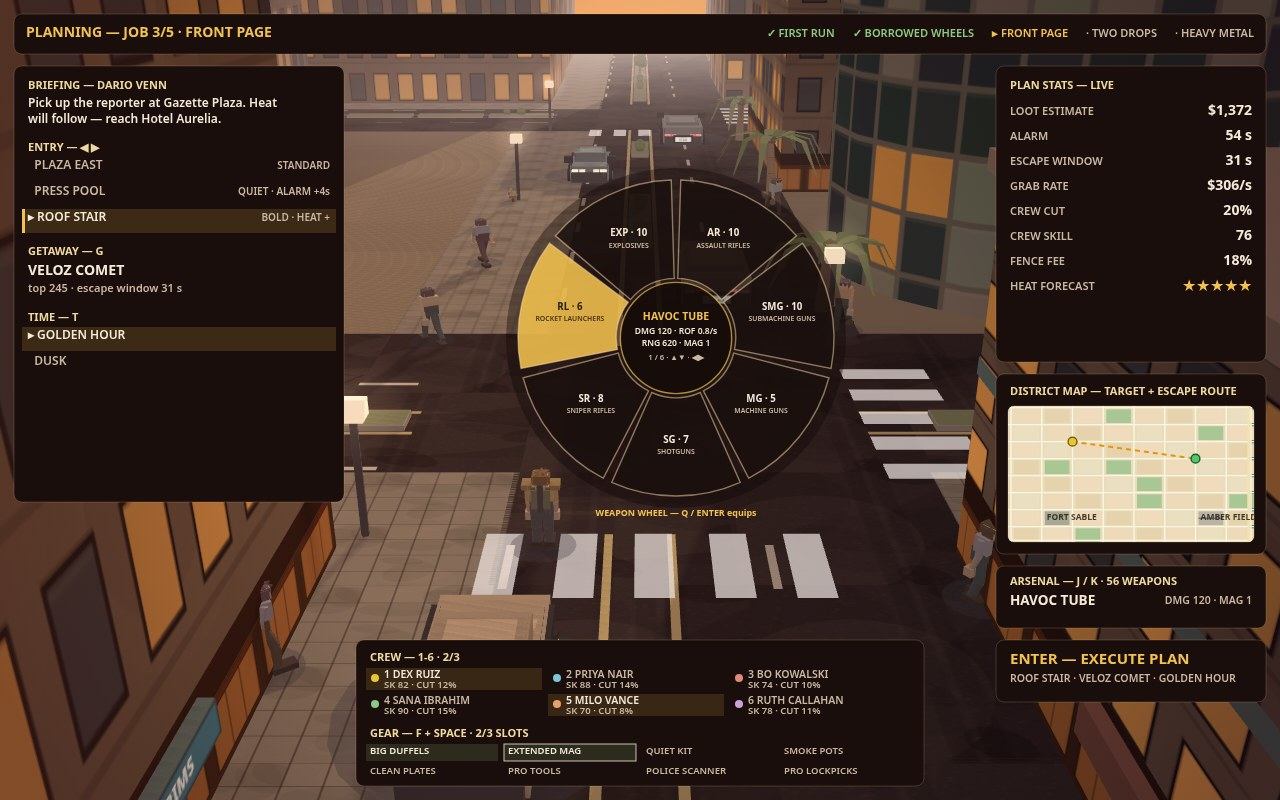
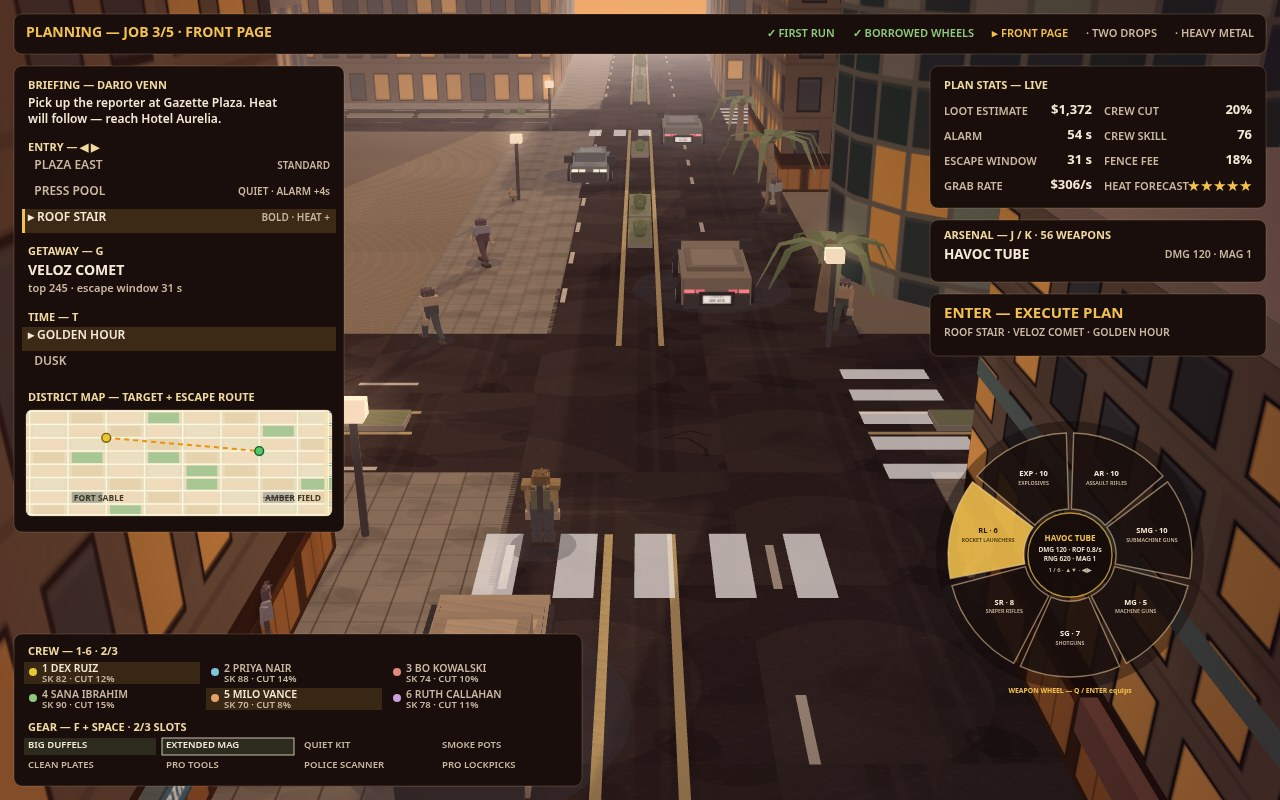
gta6-01 REAL-3D Phase 7 (hud.js board layout only; view3d.js/shots.js untouched, all sim modules byte-identical): BOARD FOCAL HIERARCHY — the Phase 6 panel's ranked programme item 1. Frame 1's panels + weapon wheel covered 51.7% panel-rect / ~70% perceptual and fragmented the street into corridors. 

diff --git a/game/src/hud.js b/game/src/hud.js
@@ -509,9 +509,11 @@ export function drawPlanning(ctx, game) {
     ctx.fillStyle = i === idx ? '#f2c14e' : i < idx ? '#8fc97f' : PALETTE.hudMuted;
     ctx.fillText(label, tabX, 28); tabX -= w + 18;
   }
-  // Left column: briefing, entry, getaway, time.
+  // Left column: briefing, entry, getaway, time — and, folded into the
+  // dead space this panel used to waste (Phase 7 focal hierarchy), the
+  // district map that used to be its own right-column panel.
   const lx = 14, lw = 330;
-  panelSolid(ctx, lx, 66, lw, 436);
+  panelSolid(ctx, lx, 66, lw, 466);
   let y = 80;
   ctx.textAlign = 'left'; ctx.fillStyle = '#f0d9a0'; ctx.font = '700 11px system-ui, sans-serif';
   ctx.fillText('BRIEFING — DARIO VENN', lx + 14, y); y += 18;
@@ -544,8 +546,18 @@ export function drawPlanning(ctx, game) {
     ctx.fillStyle = t.id === plan.timeOfDay ? PALETTE.hudText : PALETTE.hudMuted; ctx.font = '600 12px system-ui, sans-serif';
     ctx.fillText((t.id === plan.timeOfDay ? '▸ ' : '  ') + t.label, lx + 14, y); y += 26;
   });
-  // Right column: the live plan stats.
-  const rx = VIEW_W - 284, rw = 270;
+  // District map folded into the briefing panel (Phase 7): same drawn
+  // cartography, wider and shorter — the right column is freed for the
+  // compact stats stack and the street opens up on that side.
+  y += 10;
+  ctx.fillStyle = '#f0d9a0'; ctx.font = '700 11px system-ui, sans-serif';
+  ctx.fillText('DISTRICT MAP — TARGET + ESCAPE ROUTE', lx + 14, y); y += 18;
+  drawDistrictMap(ctx, game, lx + 12, y, lw - 24, 106);
+  // Right column: the live plan stats. Phase 7: wider + compact — the
+  // eight stat lines run in TWO columns of four, and ARSENAL + EXECUTE
+  // stack directly underneath, so the whole right instrument column ends
+  // at y=356 and the street below it is open.
+  const rx = VIEW_W - 350, rw = 336;
   let stars = '';
   for (let i = 0; i < 5; i++) stars += i < st.heatStars ? '★' : '☆';
   if (staged) {
@@ -565,10 +577,12 @@ export function drawPlanning(ctx, game) {
     ctx.fillStyle = PALETTE.hudMuted; ctx.font = '600 10.5px system-ui, sans-serif';
     ctx.fillText(def.pickup ? def.pickup.name.toUpperCase() + ' → ' + (def.deliver ? def.deliver.name.toUpperCase() : '') : 'TARGET ROUTE QUEUED', rx + 14, 160);
   } else {
-  panelSolid(ctx, rx, 66, rw, 296);
+  panelSolid(ctx, rx, 66, rw, 142);
   y = 80;
   ctx.fillStyle = '#f0d9a0'; ctx.font = '700 11px system-ui, sans-serif'; ctx.textAlign = 'left';
   ctx.fillText('PLAN STATS — LIVE', rx + 14, y); y += 24;
+  // ALL eight stat lines, unchanged values, in two columns of four:
+  // LOOT/ALARM/ESCAPE/GRAB left, CUT/SKILL/FENCE/HEAT right.
   const statRows = [
     ['LOOT ESTIMATE', formatMoney(st.loot)],
     ['ALARM', st.alarm + ' s'],
@@ -577,27 +591,24 @@ export function drawPlanning(ctx, game) {
     ['CREW CUT', st.totalCut + '%'],
     ['CREW SKILL', String(st.avgSkill)],
     ['FENCE FEE', st.fencePct + '%'],
+    ['HEAT FORECAST', stars],
   ];
-  for (const [k, v] of statRows) {
+  statRows.forEach(([k, v], i) => {
+    const colX = rx + 14 + Math.floor(i / 4) * 160, colW = 148;
+    const ry = y + (i % 4) * 25;
+    const isHeat = k === 'HEAT FORECAST';
     ctx.fillStyle = PALETTE.hudMuted; ctx.font = '600 11px system-ui, sans-serif'; ctx.textAlign = 'left';
-    ctx.fillText(k, rx + 14, y + 2);
-    ctx.fillStyle = PALETTE.hudText; ctx.font = '700 14px system-ui, sans-serif'; ctx.textAlign = 'right';
-    ctx.fillText(v, rx + rw - 14, y); y += 25;
-  }
-  ctx.fillStyle = PALETTE.hudMuted; ctx.font = '600 11px system-ui, sans-serif'; ctx.textAlign = 'left';
-  ctx.fillText('HEAT FORECAST', rx + 14, y + 2);
-  ctx.font = '16px sans-serif'; ctx.textAlign = 'right';
-  ctx.fillStyle = '#f2c14e'; ctx.fillText(stars, rx + rw - 14, y);
-  // District map (VC-style cartography, our geography) under the stats.
-  panelSolid(ctx, rx, 374, rw, 180);
-  ctx.fillStyle = '#f0d9a0'; ctx.font = '700 11px system-ui, sans-serif'; ctx.textAlign = 'left';
-  ctx.fillText('DISTRICT MAP — TARGET + ESCAPE ROUTE', rx + 14, 386);
-  drawDistrictMap(ctx, game, rx + 12, 406, rw - 24, 136);
+    ctx.fillText(k, colX, ry + 2);
+    ctx.fillStyle = isHeat ? '#f2c14e' : PALETTE.hudText; ctx.font = isHeat ? '15px sans-serif' : '700 13px system-ui, sans-serif'; ctx.textAlign = 'right';
+    ctx.fillText(v, colX + colW, ry);
+  });
+  ctx.textAlign = 'left';
   }
   // Arsenal strip: the mission weapon picked from the full 56-weapon table.
-  panelSolid(ctx, rx, staged ? 188 : 566, rw, 62);
+  // Phase 7: stacked in the right instrument column under the stats.
+  panelSolid(ctx, rx, staged ? 188 : 220, rw, 62);
   const wdef = weaponById(plan.weaponId || 'venn-9mm');
-  const ay = staged ? 198 : 576;
+  const ay = staged ? 198 : 230;
   ctx.fillStyle = '#f0d9a0'; ctx.font = '700 11px system-ui, sans-serif'; ctx.textAlign = 'left';
   ctx.fillText('ARSENAL — J / K · 56 WEAPONS', rx + 14, ay);
   ctx.fillStyle = PALETTE.hudText; ctx.font = '700 13.5px system-ui, sans-serif';
@@ -605,8 +616,9 @@ export function drawPlanning(ctx, game) {
   ctx.fillStyle = PALETTE.hudMuted; ctx.font = '600 10.5px system-ui, sans-serif'; ctx.textAlign = 'right';
   ctx.fillText('DMG ' + wdef.damage + ' · MAG ' + (plan.gear.includes('extmag') && wdef.cls !== 'EXP' && wdef.cls !== 'RL' ? Math.round(wdef.mag * 1.5) : wdef.mag), rx + rw - 14, ay + 20);
   ctx.textAlign = 'left';
-  // Bottom centre: crew and gear over their slots.
-  const bx = 356, bw = 568;
+  // Bottom-left dock: crew and gear over their slots (Phase 7 — was
+  // bottom-centre, where it cut the street's foreground in two).
+  const bx = 14, bw = 568;
   if (staged) {
     // Collapsed crew+gear bar: the hired names and packed gear, one line
     // each — the full slot grids stay one keypress away in live play.
@@ -620,8 +632,8 @@ export function drawPlanning(ctx, game) {
     ctx.fillStyle = PALETTE.hudText; ctx.font = '600 10.5px system-ui, sans-serif';
     ctx.fillText(GEAR_POOL.filter((g) => plan.gear.includes(g.id)).map((g) => g.name).join(' · ') + '  (+' + (GEAR_POOL.length - plan.gear.length) + ' IN LOCKER)', bx + 190, 758);
   } else {
-  panelSolid(ctx, bx, 640, bw, 146);
-  y = 652;
+  panelSolid(ctx, bx, 634, bw, 152);
+  y = 646;
   ctx.textAlign = 'left'; ctx.fillStyle = '#f0d9a0'; ctx.font = '700 11px system-ui, sans-serif';
   ctx.fillText('CREW — 1-6 · ' + plan.crew.length + '/3', bx + 14, y); y += 18;
   CREW_POOL.forEach((c, i) => {
@@ -647,20 +659,23 @@ export function drawPlanning(ctx, game) {
     ctx.fillText(g.name, cxp, cyp + 1);
   });
   }
-  // Execute corner.
-  panelSolid(ctx, VIEW_W - 284, 640, 270, 62);
+  // Execute: bottom of the right instrument column (Phase 7 — was its
+  // own bottom-right corner panel over the street's foreground).
+  panelSolid(ctx, rx, 294, rw, 62);
   ctx.fillStyle = '#f2c14e'; ctx.font = '700 15px system-ui, sans-serif'; ctx.textAlign = 'left';
-  ctx.fillText('ENTER — EXECUTE PLAN', VIEW_W - 270, 652);
+  ctx.fillText('ENTER — EXECUTE PLAN', rx + 14, 306);
   ctx.fillStyle = PALETTE.hudMuted; ctx.font = '600 10.5px system-ui, sans-serif';
   const entryName = data.entries[plan.entry];
-  ctx.fillText(entryName + ' · ' + gw.name + ' · ' + (TIMES.find((t) => t.id === plan.timeOfDay) || TIMES[0]).label, VIEW_W - 270, 674);
+  ctx.fillText(entryName + ' · ' + gw.name + ' · ' + (TIMES.find((t) => t.id === plan.timeOfDay) || TIMES[0]).label, rx + 14, 328);
   ctx.restore();
   // The wheel as the board's inset (staged captures open it here): the full
   // 7-segment arsenal proof — counts 10/10/5/7/8/6/10, the plan's launcher
-  // highlighted, hub stats — over the street corridor, clear of every panel,
-  // so the mission frame never has to spend itself on a menu again. Staged
-  // mode docks it smaller (R 118) as part of the ≤40% overlay budget.
-  if (game.wheelOpen) drawWeaponWheel(ctx, game, 676, 338, staged ? 118 : 158);
+  // highlighted, hub stats. Phase 7 focal hierarchy: the wheel no longer
+  // sits at the centre of the street (R158 at 676,338 covered the focal
+  // corridor) — it is docked smaller (R122) over the bottom-right
+  // sidewalk/building edge, clear of every panel, so the street and its
+  // cars run through the middle of the frame as one scene.
+  if (game.wheelOpen) drawWeaponWheel(ctx, game, 1070, 555, staged ? 118 : 122);
 }
 export function drawSummary(ctx, game) {
   const s = game.lastSummary || {
